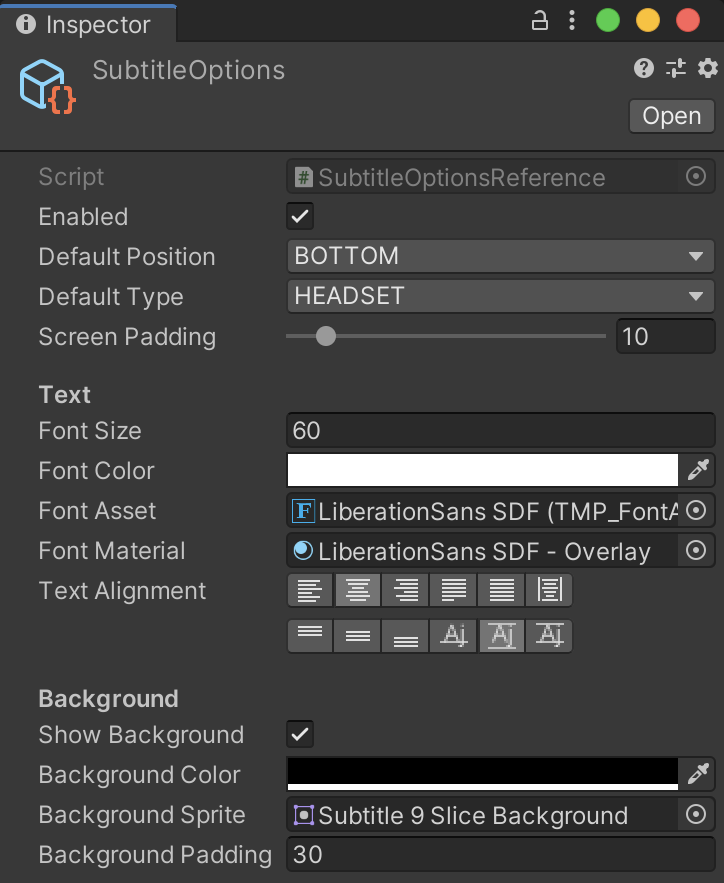
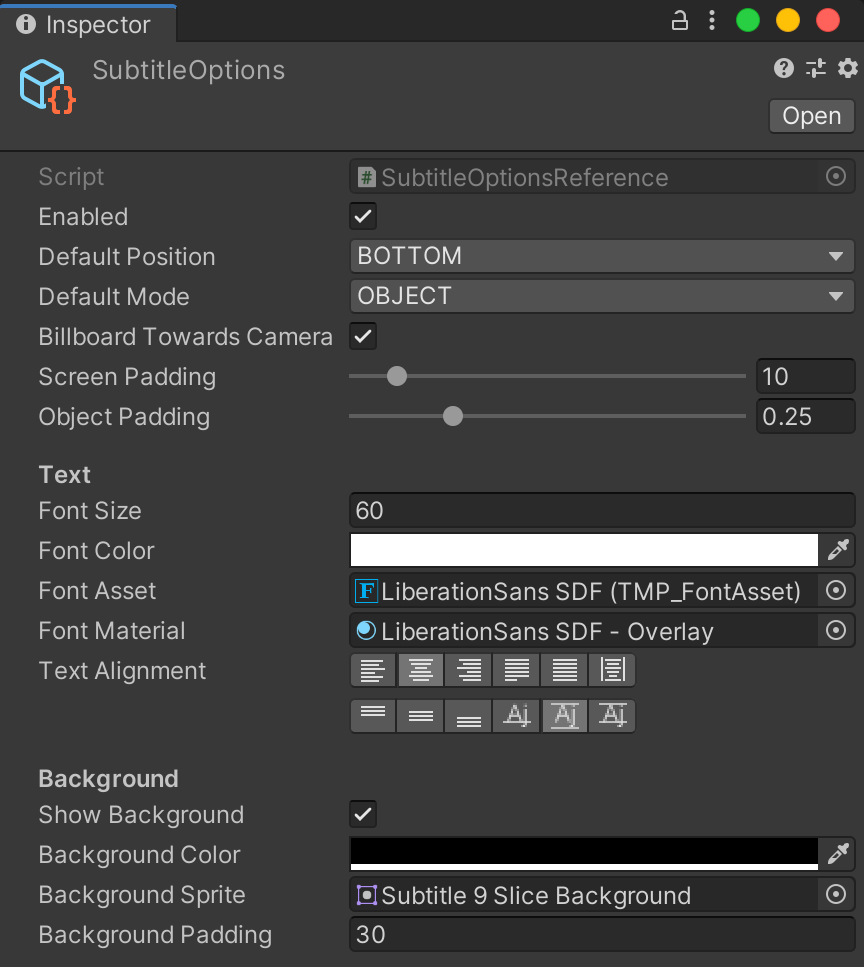
Updated README.
Updated screenshots.

diff --git a/README.md b/README.md
@@ -52,22 +52,23 @@ Drag the `Subtitle Options` asset into the `Subtitle Options` property of the `S
 
 #### Properties
 
-| Property           | Description                                                          | Default   |
-| ------------------ | -------------------------------------------------------------------- | --------- |
-| Enabled            | Toggle subtitles on or off.                                          | `Off`     |
-| Default Position   | Position subtitles should render on screen. Either `TOP` or `BOTTOM` | `BOTTOM`  |
-| Default Mode       | Mode to render subtitle. Either `SCREEN`, `HEADSET`, or `OBJECT`     | `HEADSET` |
-| Screen Padding     | Percentage of screen to be used as padding around subtitles.         | `10`      |
-| Object Padding     | World units to be used as padding around subtitles.                  | `0.25`    |
-| Font Size          | Subtitle font size.                                                  | `60`      |
-| Font Color         | Subtile font color                                                   | `White`   |
-| Font Asset         | TextMeshPro font to render subtitle with.                            | `Null`    |
-| Font Material      | TextMeshPro material to use with the TextMeshPro font.               | `Null`    |
-| Text Alignment     | TextMeshPro text alignment property.                                 | `MidLine` |
-| Show Background    | Toggle subtitle background on or off.                                | `On`      |
-| Background Color   | Background color that appears behind subtitle text                   | `Black`   |
-| Background Sprite  | Optional 9-splice sprite.                                            | `Null`    |
-| Background Padding | Padding around the text inside the background.                       | `30`      |
+| Property                 | Description                                                          |   Default |
+| ------------------------ | -------------------------------------------------------------------- | --------: |
+| Enabled                  | Toggle subtitles on or off.                                          |     `Off` |
+| Default Position         | Position subtitles should render on screen. Either `TOP` or `BOTTOM` |  `BOTTOM` |
+| Default Mode             | Mode to render subtitle. Either `SCREEN`, `HEADSET`, or `OBJECT`     | `HEADSET` |
+| Billboard Towards Camera | Rotate subtitles rendered in `OBJECT` mode towards the main camera.  |    `true` |
+| Screen Padding           | Percentage of screen to be used as padding around subtitles.         |      `10` |
+| Object Padding           | World units to be used as padding around subtitles.                  |    `0.25` |
+| Font Size                | Subtitle font size.                                                  |      `60` |
+| Font Color               | Subtile font color                                                   |   `White` |
+| Font Asset               | TextMeshPro font to render subtitle with.                            |    `Null` |
+| Font Material            | TextMeshPro material to use with the TextMeshPro font.               |    `Null` |
+| Text Alignment           | TextMeshPro text alignment property.                                 | `MidLine` |
+| Show Background          | Toggle subtitle background on or off.                                |      `On` |
+| Background Color         | Background color that appears behind subtitle text                   |   `Black` |
+| Background Sprite        | Optional 9-splice sprite.                                            |    `Null` |
+| Background Padding       | Padding around the text inside the background.                       |      `30` |
 
 #### Methods
 
